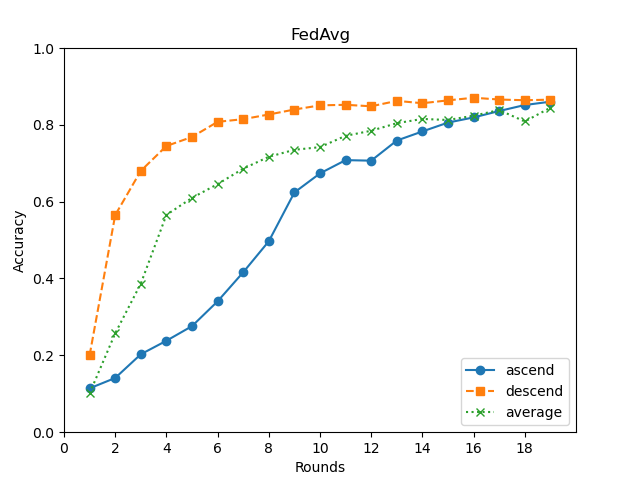
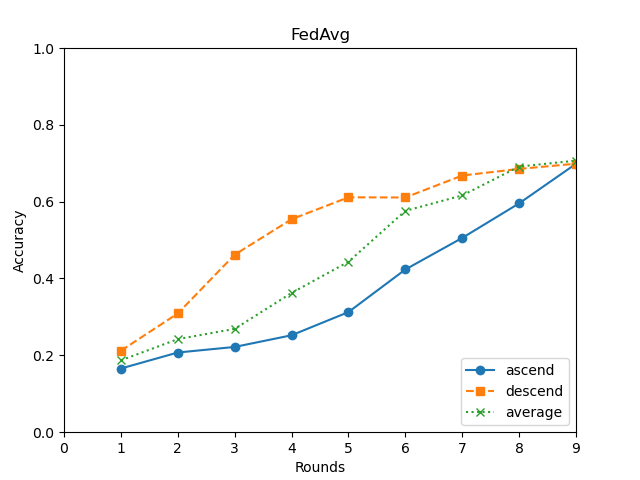
add save_model func

diff --git a/emnist/differ_epochs.py b/emnist/differ_epochs.py
@@ -10,24 +10,23 @@ import time
 
 # 环境变量设置
 nest_asyncio.apply()
-is_training = True
+is_training = False
 is_ascending = False
 is_descending = False
-image_path = './results/images/differ_epochs.png'
-model_path = './results/models/keras_model_mnist.h5'
+images_path = './results/images/differ_epochs.png'
+models_path = './results/models/'
 logs_path = './results/logs/'
 case = ['ascend', 'descend', 'average']
 
 # 定义FL超参数
 # EXPERIMENTS = 4
-CLIENTS_NUM = 6  # 终端数
-ROUNDS = 10  # 联邦学习轮数
+CLIENTS_NUM = 4  # 终端数
+ROUNDS = 9  # 联邦学习轮数
 EPOCHS_ASC = [tf.Variable(0, dtype=tf.int32, name=f'client{i}_epochs') for i in range(CLIENTS_NUM)]  # 本地训练轮数
-EPOCHS_DSC = [tf.Variable(ROUNDS+1, dtype=tf.int32, name=f'client{i}_epochs') for i in range(CLIENTS_NUM)]
-EPOCHS_AVG = [tf.Variable(10, dtype=tf.int32, name=f'client{i}_epochs') for i in range(CLIENTS_NUM)]
+EPOCHS_DSC = [tf.Variable(ROUNDS + 1, dtype=tf.int32, name=f'client{i}_epochs') for i in range(CLIENTS_NUM)]
+EPOCHS_AVG = [tf.Variable(int((ROUNDS + 1) / 2), dtype=tf.int32, name=f'client{i}_epochs') for i in range(CLIENTS_NUM)]
 BATCH_SIZE = 32  # 批量大小
 LEARNING_RATE = 0.02
-
 
 # 准备数据
 # emnist_train, emnist_test = tff.simulation.datasets.emnist.load_data()
@@ -69,6 +68,13 @@ def evaluate(model_weights, dataset):
     )
     model.set_weights(model_weights)
     return model.evaluate(dataset)
+
+
+# 保存模型参数
+def save_model_weights(model_weights, path):
+    model = create_mnist_model()
+    model.set_weights(model_weights)
+    model.save_weights(path)
 
 
 # 初始化模型并返回模型参数
@@ -230,22 +236,26 @@ if __name__ == '__main__':
             # if acc_val >= 0.80:
             #     break
 
-        print('time_used:{:.2f} s'.format(time.time()-start_time))
+        print('time_used:{:.2f} s'.format(time.time() - start_time))
+
+        # 保存model和metric
+        # 保存model和metric
         np.save(os.path.join(logs_path, case[flag]), acc)
+        save_model_weights(state, os.path.join(models_path, case[flag] + '.h5'))
 
     else:
         fig = plt.figure()
         ax = fig.add_axes([0.1, 0.1, 0.8, 0.8])
         lines = ['o-', 's--', 'x:']
         for i in range(len(case)):
-            content = np.load(os.path.join(logs_path, case[i]+'.npy'))
-            ax.plot(np.linspace(1,ROUNDS,ROUNDS), content, lines[i])
+            content = np.load(os.path.join(logs_path, case[i] + '.npy'))
+            ax.plot(np.linspace(1, ROUNDS, ROUNDS), content, lines[i])
 
         ax.set_title('FedAvg')
         ax.set_xlabel('Rounds')
         ax.set_ylabel('Accuracy')
-        ax.set_xlim(0, ROUNDS+1)
+        ax.set_xlim(0, ROUNDS)
         ax.set_ylim(0, 1)
-        ax.set_xticks(np.arange(0,ROUNDS+1,2))
-        plt.legend(labels=case,loc='lower right')
-        plt.savefig(image_path)
+        # ax.set_xticks(np.arange(0, ROUNDS))
+        plt.legend(labels=case, loc='lower right')
+        plt.savefig(images_path)
